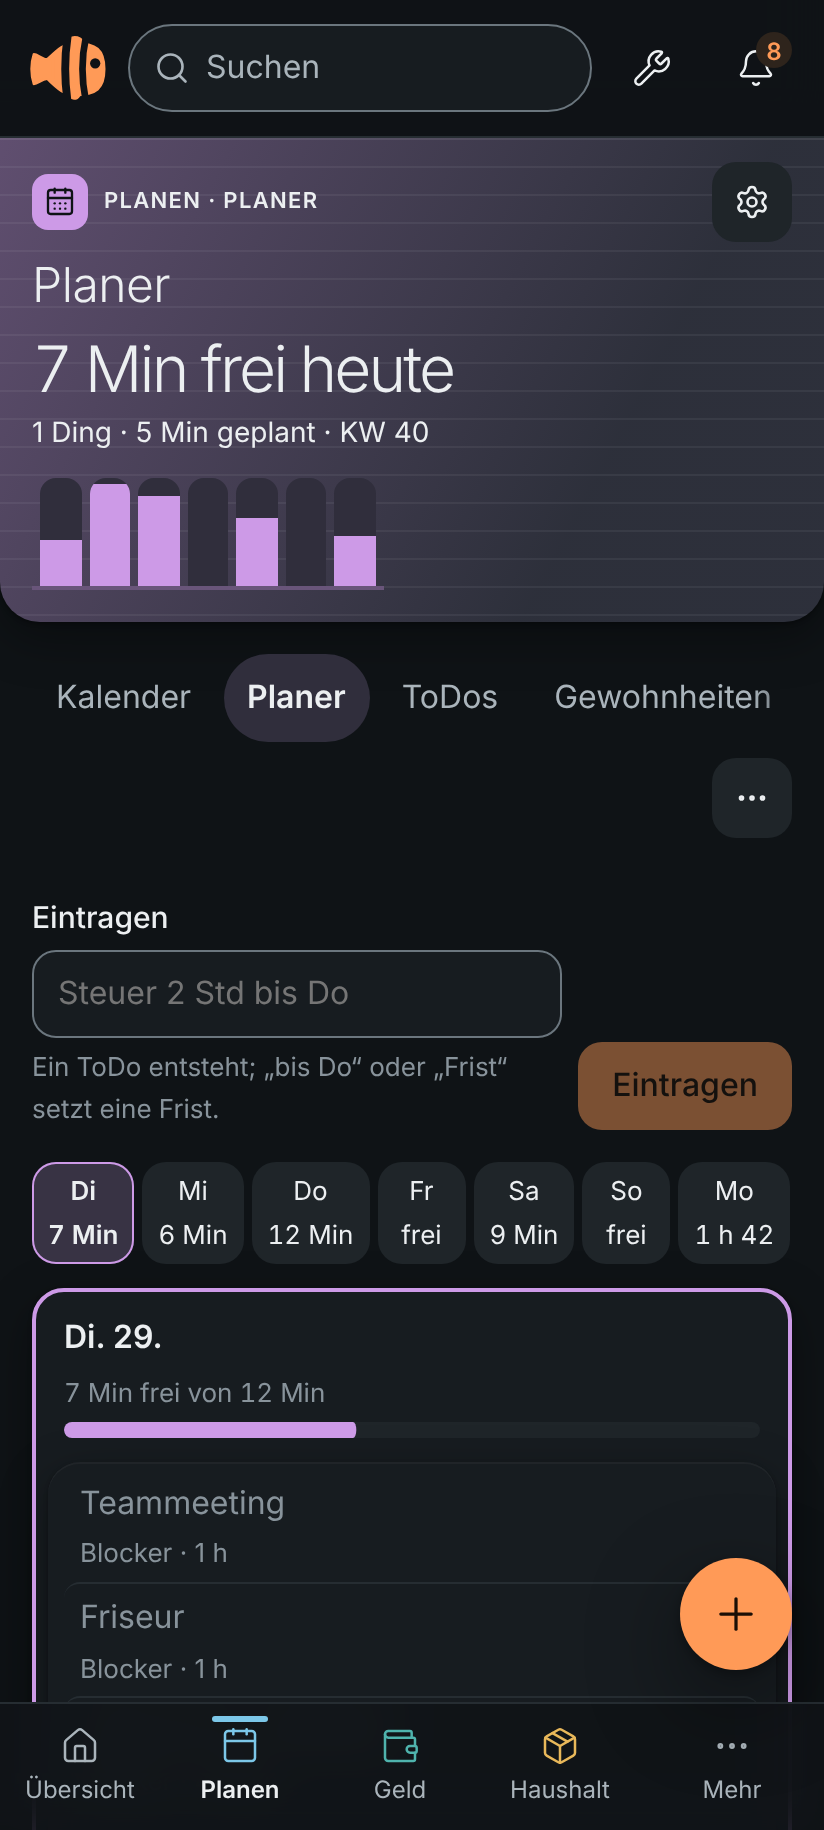
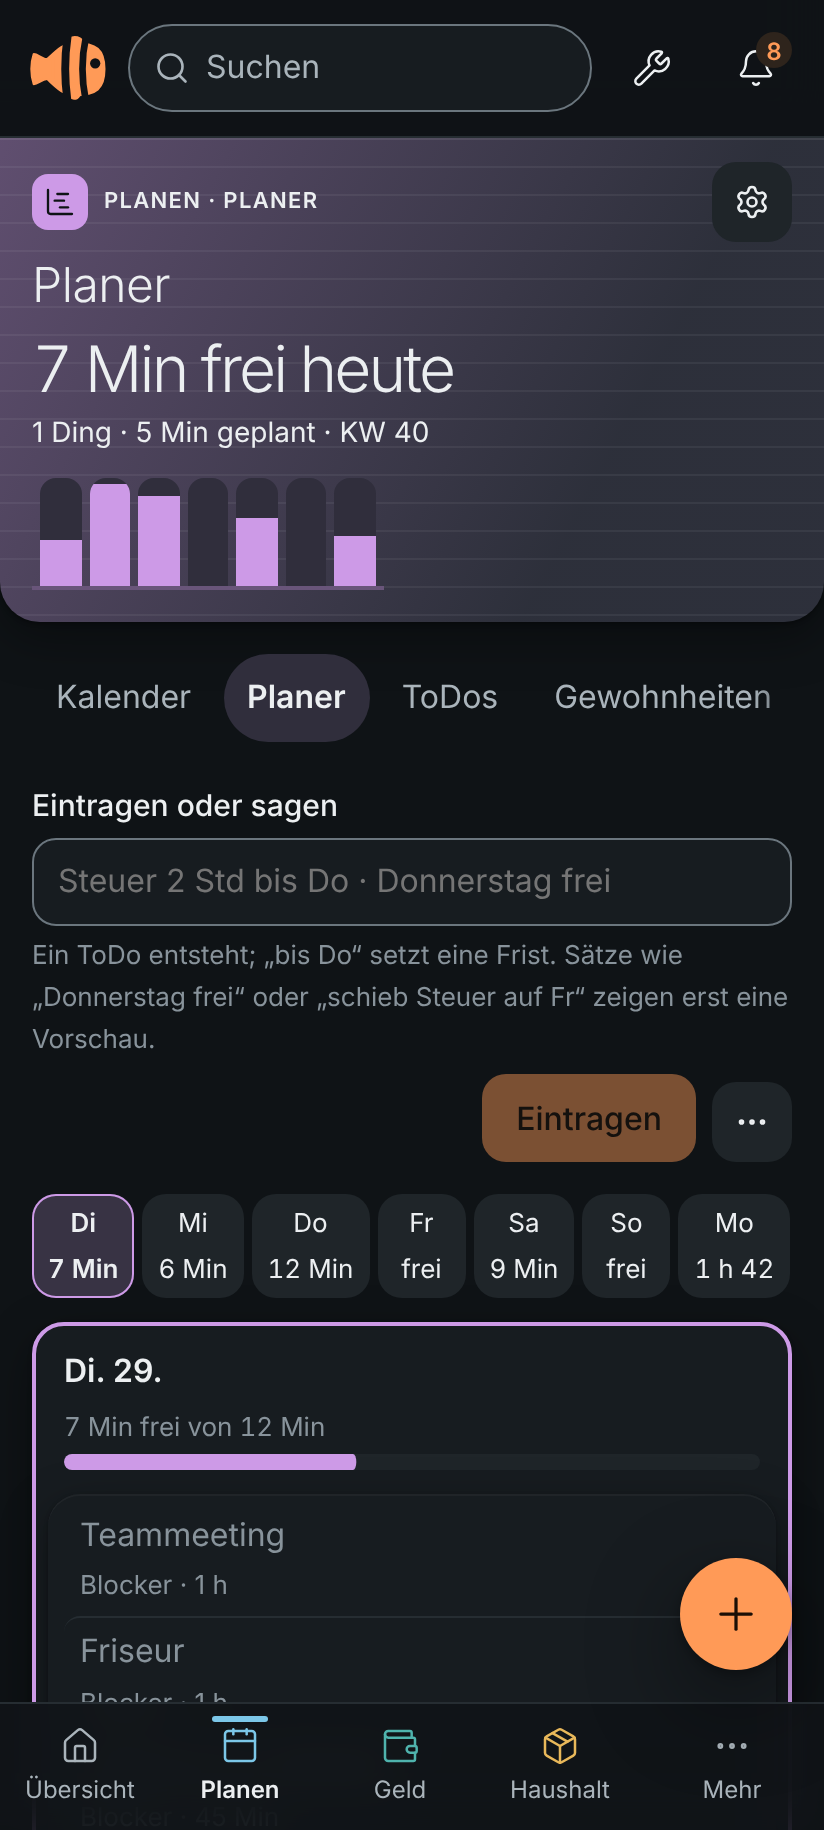
docs(site): planner highlight shows the desktop week board from 64rem
With N01 fixed the board can be shown: app:screenshots shoots
planner-desktop (1920×1080, seven columns, seed data, light and dark);
the Features highlight shows it in a window frame from 64rem and keeps
the phone shot below (retaken with the N03 icon and N04 field row).
Alt text in five site languages.

Claude-Session: https://claude.ai/code/session_019RrxT5GTJ9VErSudCUkX5P

diff --git a/site/src/i18n/fr.ts b/site/src/i18n/fr.ts
@@ -50,7 +50,7 @@ export const fr = {
     count: (n: number) => (n === 1 ? '1 module' : `${n} modules`),
     areas: { plan: 'La journée, la semaine, les gens.', money: 'Comptes, factures, abonnements, budgets.', household: 'Courses et provisions.', knowledge: 'Lire, écrire, retenir.', vault: 'Chiffré, seulement ici.', system: 'Ce que fait votre appareil en ce moment.' },
     // Planner highlight above the areas (shot: planner-*.png, name and state from the catalogue).
-    planner: { text: 'Vous notez ce qui vous attend, le planificateur le répartit sur votre temps libre – hors ligne, sans compte.', alt: 'Planificateur sur mobile : temps libre aujourd’hui, la semaine en barres et la journée avec ses rendez-vous' },
+    planner: { text: 'Vous notez ce qui vous attend, le planificateur le répartit sur votre temps libre – hors ligne, sans compte.', alt: 'Planificateur sur mobile : temps libre aujourd’hui, la semaine en barres et la journée avec ses rendez-vous', altDesktop: 'Planificateur sur ordinateur : temps libre aujourd’hui, la semaine en barres et sept jours côte à côte avec rendez-vous et tâches' },
     modules: {
       summary: (n: number) => `Les ${n} modules`,
       status: { default: 'activé par défaut', optional: 'facultatif', preview: 'aperçu' },

diff --git a/site/src/i18n/es.ts b/site/src/i18n/es.ts
@@ -50,7 +50,7 @@ export const es = {
     count: (n: number) => (n === 1 ? '1 módulo' : `${n} módulos`),
     areas: { plan: 'El día, la semana, la gente.', money: 'Cuentas, facturas, suscripciones, presupuestos.', household: 'Compras y despensa.', knowledge: 'Leer, escribir, recordar.', vault: 'Cifrado, solo aquí.', system: 'Lo que hace tu dispositivo ahora.' },
     // Planner highlight above the areas (shot: planner-*.png, name and state from the catalogue).
-    planner: { text: 'Tú anotas lo que tienes pendiente y el planificador lo reparte en tu tiempo libre, sin conexión y sin cuenta.', alt: 'Planificador en el móvil: tiempo libre hoy, la semana en barras y el día con sus citas' },
+    planner: { text: 'Tú anotas lo que tienes pendiente y el planificador lo reparte en tu tiempo libre, sin conexión y sin cuenta.', alt: 'Planificador en el móvil: tiempo libre hoy, la semana en barras y el día con sus citas', altDesktop: 'Planificador en el escritorio: tiempo libre hoy, la semana en barras y siete días uno al lado del otro con citas y tareas' },
     modules: {
       summary: (n: number) => `Los ${n} módulos`,
       status: { default: 'activado por defecto', optional: 'opcional', preview: 'vista previa' },

diff --git a/site/src/i18n/pt.ts b/site/src/i18n/pt.ts
@@ -50,7 +50,7 @@ export const pt = {
     count: (n: number) => (n === 1 ? '1 módulo' : `${n} módulos`),
     areas: { plan: 'O dia, a semana, as pessoas.', money: 'Contas, faturas, assinaturas, orçamentos.', household: 'Compras e despensa.', knowledge: 'Ler, escrever, lembrar.', vault: 'Criptografado, só aqui.', system: 'O que seu dispositivo está fazendo.' },
     // Planner highlight above the areas (shot: planner-*.png, name and state from the catalogue).
-    planner: { text: 'Você anota o que tem pela frente e o planejador distribui no seu tempo livre – offline, sem conta.', alt: 'Planejador no celular: tempo livre hoje, a semana em barras e o dia com seus compromissos' },
+    planner: { text: 'Você anota o que tem pela frente e o planejador distribui no seu tempo livre – offline, sem conta.', alt: 'Planejador no celular: tempo livre hoje, a semana em barras e o dia com seus compromissos', altDesktop: 'Planejador no computador: tempo livre hoje, a semana em barras e sete dias lado a lado com compromissos e tarefas' },
     modules: {
       summary: (n: number) => `Todos os ${n} módulos`,
       status: { default: 'ligado por padrão', optional: 'opcional', preview: 'prévia' },

diff --git a/site/src/i18n/en.ts b/site/src/i18n/en.ts
@@ -50,7 +50,7 @@ export const en = {
     count: (n: number) => (n === 1 ? '1 module' : `${n} modules`),
     areas: { plan: 'The day, the week, the people.', money: 'Accounts, invoices, subscriptions, budgets.', household: 'Shopping and supplies.', knowledge: 'Read, write, remember.', vault: 'Encrypted, only here.', system: 'What your device is up to.' },
     // Planner highlight above the areas (shot: planner-*.png, name and state from the catalogue).
-    planner: { text: 'You enter what’s coming up; the planner spreads it over your free time – offline, no account.', alt: 'Planner on the phone: free time today, the week as bars and the day with its appointments' },
+    planner: { text: 'You enter what’s coming up; the planner spreads it over your free time – offline, no account.', alt: 'Planner on the phone: free time today, the week as bars and the day with its appointments', altDesktop: 'Planner on the desktop: free time today, the week as bars and seven days side by side with appointments and to-dos' },
     modules: {
       summary: (n: number) => `All ${n} modules`,
       status: { default: 'on by default', optional: 'optional', preview: 'preview' },

diff --git a/site/src/i18n/de.ts b/site/src/i18n/de.ts
@@ -50,7 +50,7 @@ export const de = {
     count: (n: number) => (n === 1 ? '1 Modul' : `${n} Module`),
     areas: { plan: 'Der Tag, die Woche, die Leute.', money: 'Konten, Rechnungen, Abos, Budgets.', household: 'Einkaufen und Vorräte.', knowledge: 'Lesen, schreiben, merken.', vault: 'Verschlüsselt, nur hier.', system: 'Was dein Gerät gerade tut.' },
     // Planner highlight above the areas (shot: planner-*.png, name and state from the catalogue).
-    planner: { text: 'Du trägst ein, was ansteht, der Planer verteilt es auf deine freie Zeit – offline, ohne Konto.', alt: 'Planer am Handy: freie Zeit heute, die Woche als Balken und der Tag mit seinen Terminen' },
+    planner: { text: 'Du trägst ein, was ansteht, der Planer verteilt es auf deine freie Zeit – offline, ohne Konto.', alt: 'Planer am Handy: freie Zeit heute, die Woche als Balken und der Tag mit seinen Terminen', altDesktop: 'Planer am Desktop: freie Zeit heute, die Woche als Balken und sieben Tage nebeneinander mit Terminen und ToDos' },
     modules: {
       summary: (n: number) => `Alle ${n} Module`,
       status: { default: 'standardmäßig an', optional: 'optional', preview: 'Vorschau' },
